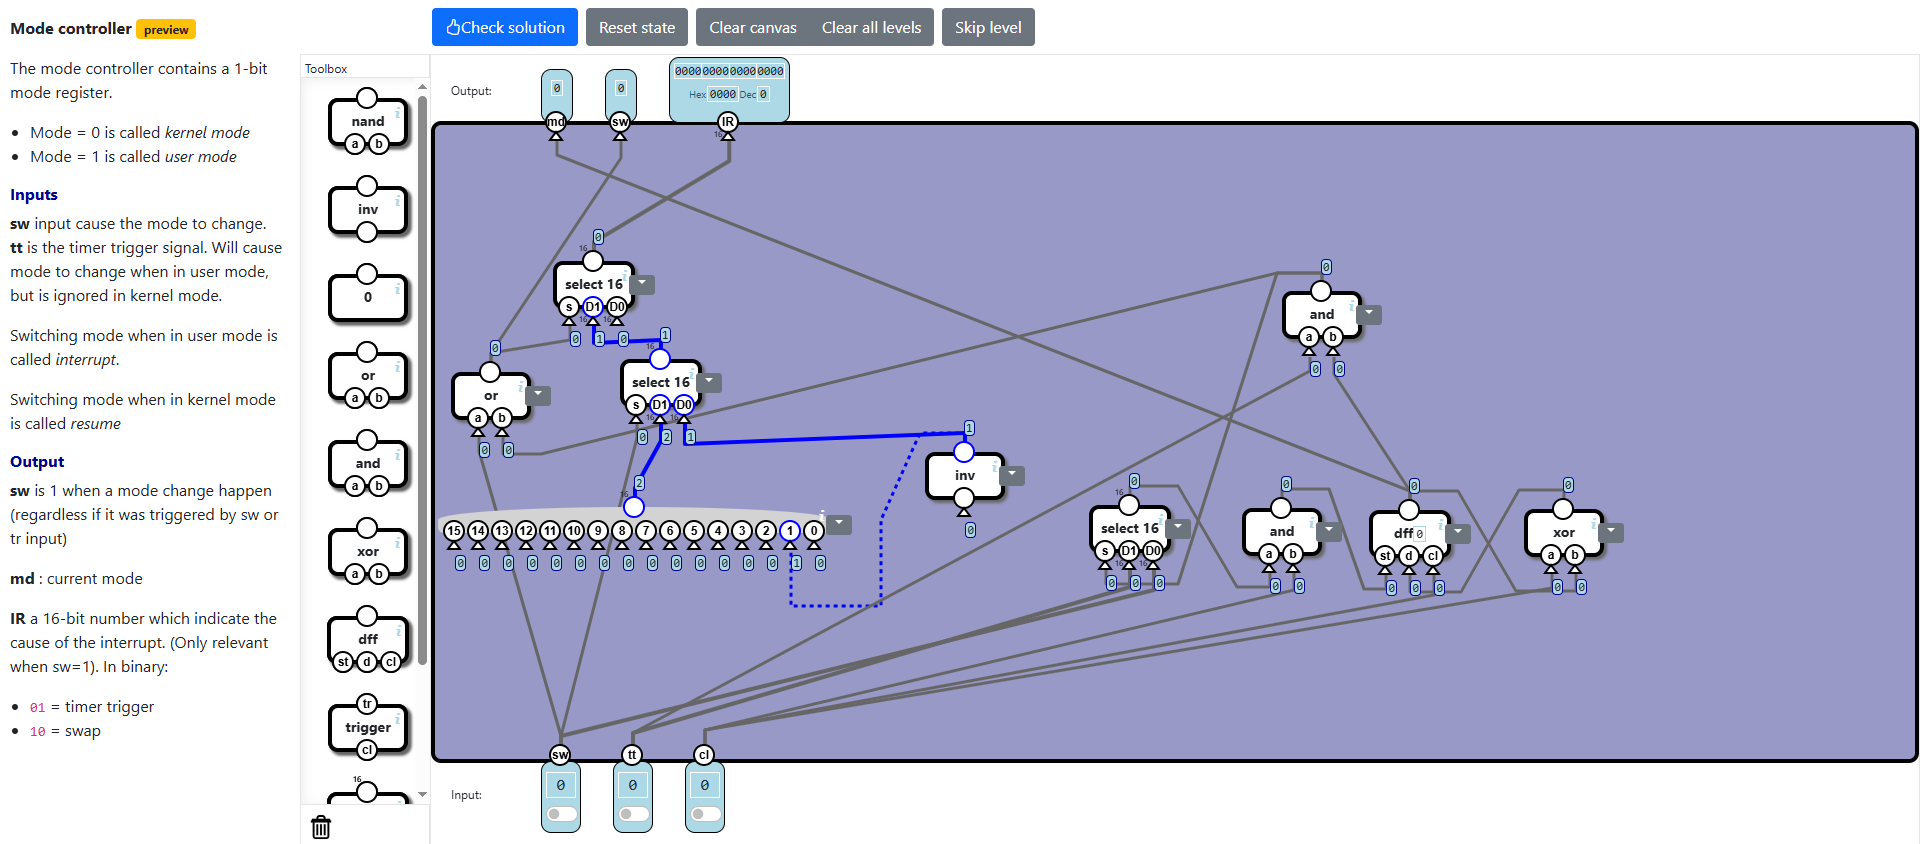
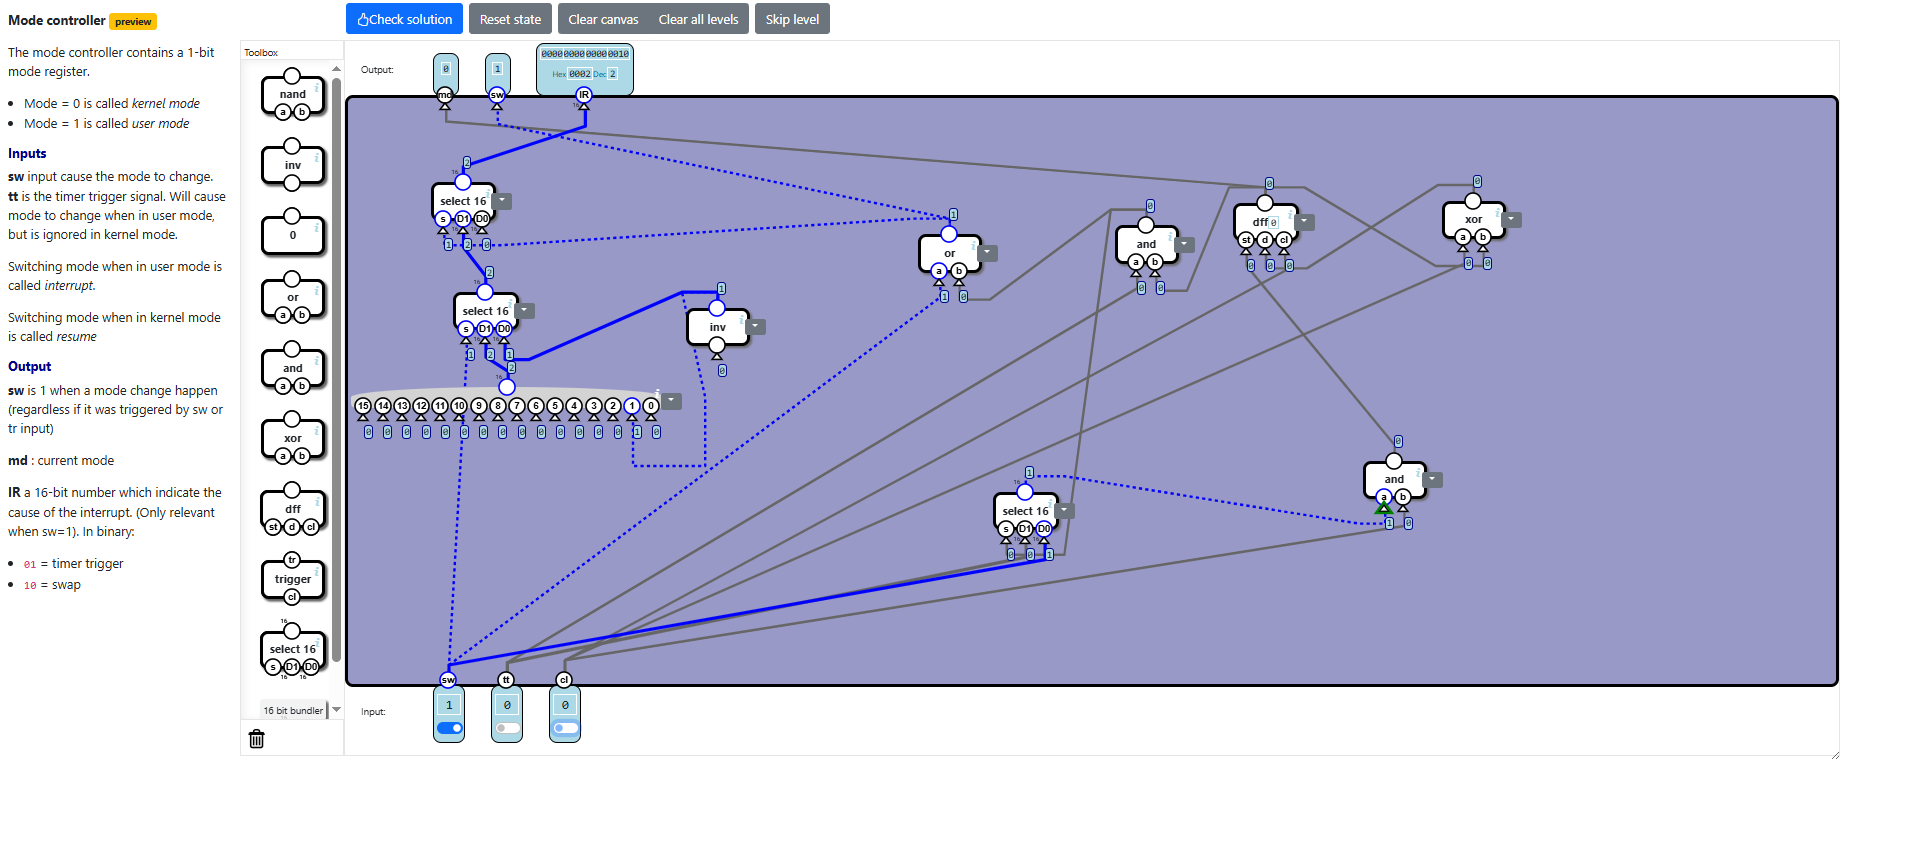
Added Multitasking CPU levels solutions

diff --git a/Solutions/Multitasking-CPU/multitasking_cpu.md b/Solutions/Multitasking-CPU/multitasking_cpu.md
@@ -1,0 +1,54 @@
+# Bit shifts levels
+In this category we learn about multitasking at hardware level.
+
+## Solutions description
+Most levels are similar to [Processor](../Computer/Processor/processor.md) subcategory from Computer and in the end we will create a CPU that has multitasking feature. The solutions are not optimal since they are only verified for their output.
+
+## Timer Trigger
+In this level we have to output 1 every 256 clock cycles. We do that by using a Counter which increments a value and when that value reaches 256 (when the bit 8 is 1) we reset the value back to 0. The output is the bit 8. When we reset, we set the counter back to 1. In the end we get the solution.
+
+<img src="Timer-Trigger.png" alt="Timer Trigger" width="928"/>
+
+## Mode Controller
+In this level we have to implement a mode controller that outputs the mode (0 = kernel mode, 1 = user mode) of a process, a flag for mode change and a code for the cause of the interrupt, when changing from user mode to kernel mode (01 = timer trigger, 10 = swap). We have 3 inputs, a flag for changing the current mode, another flag for changing the mode, but only works when in user mode, and a clock. Each clock cycle the mode can be changed. The solution is divided in two parts, one that deals with the current mode and mode change status, and another that deals with the cause of the mode change. 
+
+The **md** output must change when **sw** input is 1 during a clock cycle. When **tt** input is 1, **md** will only change in user mode. **sw** output is 1 when **sw** input is 1 during a clock cycle, and when **tt** input is 1, **sw** output will be 1 only if current mode is user. So obviously we need to store the current mode, in a DFF component. We connect the clock to the DFF component. The data input of the DFF component will be the result from and Xor component between the DFF stored value and the clock, to switch between 0 and 1 at each clock when **sw** input is 1. The set input of the DFF component is the output of an And component that takes the clock as an input and the result of a Select component that selects between **sw** and **tt** inputs based on the situation when current mode is user and **tt** input is 1. When this happens **tt** input will set the current mode in DFF, else the select will choose **sw** input to set the current mode in DFF. The changed flag will be 1 when either **sw** input is 1 or when **tt** input is 1 during user mode. That means that its gonna be the result of an Or component between **sw** input and the And component result which suggests when **tt** is 1 and current mode stored in DFF is user. 
+
+The second part of the solution selects between 10 and 01 based on **sw** input and then selects the result only when **sw** output is 1, else IR output is going to be 0. We get the following solution.
+
+<img src="Mode-controller.png" alt="Mode Controller" width="928"/>
+
+## Register with backup
+In this level we have to implement the register backup when an interrupt happens (switch from user mode to kernel mode). For this we require two registers. The first one stores **X** by default, when **st** input is 1 and **sb** is 0. The second one stores X when both **st** and **sb** inputs are 1. While no mode switch occurs, the main register output will get data from the first register and the backup register will get data from the second register. When a mode switch occurs, the main register will get data from the second register during resume, or **X0** input during interrupt. The backup register will get data from the second register during resume and first register during interrupt. In the end the solution is simple.
+
+<img src="Register-with-backup.png" alt="Register with backup" width="928"/>
+
+## Program counter
+This level is kinda easy, because you have the main component needed available in the Toolbox. We implement a program counter that works with a register component that has backup. This way we will have a Program Counter with a Program Counter backup. We increment the counter based on **j** input. When the mode is switched to kernel (interrupt) the program counter will take the value of **X0**, which is 0. **st** input of register component is always 1. Finally we get the solution.
+
+<img src="Program-counter.png" alt="Program counter" width="928"/>
+
+## Register bank
+In this level we bundle together 4 registers, each having a backup. One is a program counter, one during interrupt will store the backup on the main register, one will store the current mode code in the main register and the last one will set the main register to 0. The solution is easy to implement.
+
+<img src="Register-bank.png" alt="Register bank" width="928"/>
+
+## General-purpose Memory
+Another simple level where we bundle a bunch of registers together in order to output the values stored on two addresses, **a** and **pc**. The solution is easy to follow.
+
+<img src="General-purpose-Memory.png" alt="General-purpose Memory" width="928"/>
+
+## Virtual memory
+In this level we extend 16-bit values to 18-bit values (3 more bits), by extracting the extra digits from the **M** input based on the most significant bit of the other inputs as specified in the level. This is also an easy solution to find.
+
+<img src="Virtual-memory.png" alt="Virtual Memory" width="928"/>
+
+## Control Unit
+This is a similar level to previous ones, where the outputs depends on a bunch of bit flags and selects. This is another straight forward, easy solution.
+
+<img src="Control-Unit.png" alt="Control Unit" width="928"/>
+
+## Processor
+In this level we finally get to connect all the components we've made and form a CPU that allows process interrupts and resumes. We connect the memory to the control unit and the control unit to the registers and the mode handler. We connect the registers to the control unit. Mode handler is connected to the registers and timer trigger to the mode handler. Finally we connect the clock to everything. Finally we get a working CPU.
+
+<img src="Processor.png" alt="Processor" width="928"/>

diff --git a/README.md b/README.md
@@ -10,3 +10,4 @@ Nandgame solutions for Hardware, Software and Optional levels with explanations.
 - [Functional Completeness](Solutions/Functional-Completeness/functional_completeness.md)
 - [Bit Shifts](Solutions/Bit-shifts/bit_shifts.md)
 - [Advanced Arithmetics and Floating Point](Solutions/Advanced-Arithmetics-and-Floating-Point/advanced_arithmetics_and_floating_point.md)
+- [Multitasking CPU](Solutions/Multitasking-CPU/multitasking_cpu.md)
